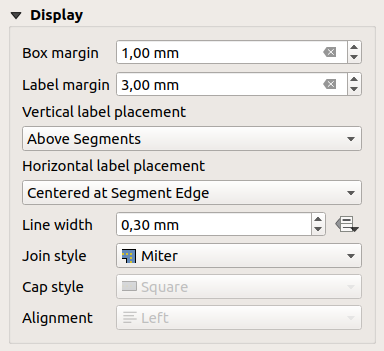
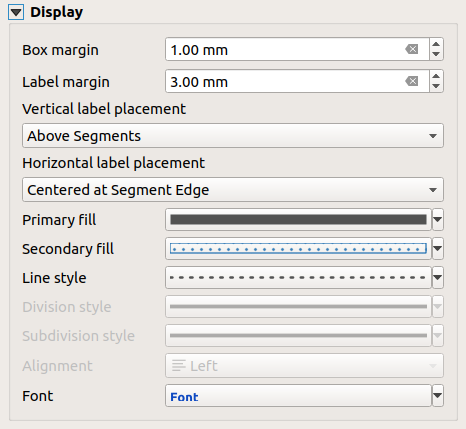
Review the layout scale bar widget properties

Changed region(s): [[0.0, 0.0, 0.9688, 0.9687], [0.0312, 0.6268, 0.25, 0.6838]]

diff --git a/docs/user_manual/print_composer/composer_items/composer_scale_bar.rst b/docs/user_manual/print_composer/composer_items/composer_scale_bar.rst
@@ -43,53 +43,85 @@ The :guilabel:`Main properties` group of the scale bar
    Scale Bar Main properties group
 
 #. First, choose the map the scale bar will be attached to
-#. Then, choose the style of the scale bar. Six styles are available:
+#. Then, choose the style of the scale bar. Available styles are:
 
    * **Single box** and **Double box** styles, which contain one or two lines
      of boxes alternating colors;
    * **Middle**, **Up** or **Down** line ticks;
+   * **Stepped line** style that draws a stepped line representation of a scalebar
+   * **Hollow** style that draws a single box with alternating color for the
+     segments, with horizontal lines through alternating segments
    * **Numeric**, where the scale ratio is printed (e.g., ``1:50000``).
 #. Set properties as appropriate
 
-Units and Segments
-------------------
+Units
+-----
 
-The :guilabel:`Units` and :guilabel:`Segments` groups of the scale bar
-:guilabel:`Item Properties` panel (not available for the **Numeric** style)
-provide the following functionalities (see figure_layout_scalebar_units_):
+The :guilabel:`Units` group of the scale bar :guilabel:`Item Properties` panel
+provides the functionalities to set the units of display and some text formatting
+(see figure_layout_scalebar_units_):
 
 .. _figure_layout_scalebar_units:
 
 .. figure:: img/scalebar_units.png
    :align: center
 
-   Scale Bar Units and Segments groups
-
-In these two groups, you can set how the scale bar will be represented.
+   Scale Bar Units group
 
 * Select the units you want to use with :guilabel:`Scalebar units`. There are
   many possible choices: **Map Units** (the default one), **Meters**, **Feet**,
-  **Miles** or **Nautical Miles**... which may force unit conversions.
+  **Miles** or **Nautical Miles**... and some derivatives. Units conversion
+  is handled automatically.
 * The :guilabel:`Label unit multiplier` specifies how many scale bar units per
   labeled unit. Eg, if your scale bar units are set to "meters", a multiplier of
   1000 will result in the scale bar labels in "kilometers".
 * The :guilabel:`Label for units` field defines the text used to describe the
   units of the scale bar, eg ``m`` or ``km``. This should be matched to reflect
   the multiplier above.
+* Press :guilabel:`Customize`next to :guilabel:`Number format` to have control
+  over all the formatting properties for the numbers in the scale bar, including
+  thousand separators, decimal places, scientific notation, etc.
+  (see :ref:`number_formatting` for more details).
+  Very useful in the case of making maps for audiences outside of the current
+  QGIS locale, or when you'd just prefer to vary the style from the locale
+  defaults (e.g. adding thousands separators when the locale default is to hide
+  them)
+
+Segments
+--------
+
+The :guilabel:`Segments` group of the scale bar :guilabel:`Item Properties` panel
+provides the functionalities to configure the number and size of segments and
+subdivisions (see figure_layout_scalebar_segments_):
+
+.. _figure_layout_scalebar_segments:
+
+.. figure:: img/scalebar_segments.png
+   :align: center
+
+   Scale Bar Segments group
+
 * You can define how many :guilabel:`Segments` will be drawn on the left and on
-  the right side of the scale bar.
-* You can set how long each segment will be (:guilabel:`Fixed width`), or limit
+  the right side of the ``0`` of the scale bar:
+
+  * number of subdivisions of a unique segment on the :guilabel:`Left` side
+  * number of segments on the :guilabel:`Right` side
+* You can set how long a segment will be (:guilabel:`Fixed width`), or limit
   the scale bar size in ``mm`` with :guilabel:`Fit segment width` option. In the
   latter case, each time the map scale changes, the scale bar is resized (and
   its label updated) to fit the range set.
 * :guilabel:`Height` is used to define the height of the bar.
+* :guilabel:`Right segment subdivisions` is used to define the number of sections
+  the right-side segments of the scale bar can have (for *Line Ticks Down*,
+  *Line Ticks Middle* and *Line Ticks Up* scale bar styles) .
+* :guilabel:`Subdivision height` is used to define the height of the subdivision
+  segment.
 
 Display
 --------
 
 The :guilabel:`Display` group of the scale bar :guilabel:`Item Properties`
-panel provides the following functionalities (see
-figure_layout_scalebar_display_):
+panel provides the following functionalities:
 
 .. _figure_layout_scalebar_display:
 
@@ -106,50 +138,35 @@ You can define how the scale bar will be displayed in its frame.
   segment
 * :guilabel:`Horizontal label placement`: which would be centered at the scale
   bar segment's edge or center
-* :guilabel:`Line width` : line width of the scale bar drawing
-* :guilabel:`Join style` : Corners at the end of scale bar in Bevel, Miter or
-  Round style (only available for Scale bar style Single Box & Double Box)
-* :guilabel:`Cap style` : End of all lines in style Square, Round or Flat
-  (only available for Scale bar style Line Ticks Up, Down and Middle)
-* :guilabel:`Alignment` : Puts text on the left, center or right side of the
-  frame (works only for Scale bar style Numeric)
-
-Fonts and colors
------------------
-
-The :guilabel:`Fonts and colors` group of the scale bar
-:guilabel:`Item Properties` panel provides the following functionalities
-(see figure_layout_scalebar_fonts_):
-
-.. _figure_layout_scalebar_fonts:
-
-.. figure:: img/scalebar_fonts.png
-   :align: center
-
-   Scale Bar Fonts and colors groups
-
-You can define the :ref:`fonts <font_selector>` and :ref:`colors <color-selector>`
-used for the scale bar. These properties are data-definable.
-
-* Use the :guilabel:`Font` button to set the :ref:`properties <text_format>`
+* :guilabel:`Primary fill` and :guilabel:`Secondary fill` of the scale bar
+  drawing using :ref:`fill symbols properties <vector_fill_symbols>`
+  (color, opacity, patterns, effects...) --- for *Single Box*, *Double Box*
+  and *Hollow* styles
+* :guilabel:`Line style` of the scale bar drawing using :ref:`line symbols
+  properties <vector_line_symbols>` (color, stroke, join, cap style, patterns,
+  effects...) --- for all but *Numeric* style
+* :guilabel:`Division style` and :guilabel:`Subdivision style` respectively
+  for division and subdivision segments in *Line Ticks Up*, *Line Ticks Middle*
+  and *Line Ticks Down* scale bar styles using :ref:`line symbols properties
+  <vector_line_symbols>` (color, stroke, join, cap style, patterns, effects...)
+* :guilabel:`Alignment` puts text on the left, center or right side of the
+  frame (only for *Numeric* scale bar style)
+* :guilabel:`Font` to set the :ref:`properties <text_format>`
   (size, font, color, letter spacing, shadow, background...) of the scale bar
   label.
 
-  Example: The following code applied to the bold property of the scale labels
-  will display texts in bold when they are a multiple of 500:
+Since most of the display properties of the scale bar rely on symbols whose
+properties can be data-defined, it's possible to render data-defined scale bars.
 
-  ::
+**Example**: The following code applied to the bold property of the scale labels
+will display texts in bold when they are a multiple of 500:
 
-     -- returns True (or 1) if the value displayed on the bar
-     -- is a multiple of 500
+::
 
-     @scale_value % 500 = 0
+   -- returns True (or 1) if the value displayed on the bar
+   -- is a multiple of 500
 
-* :guilabel:`Fill color`: set the first fill color
-* :guilabel:`Secondary fill color`: set the second fill color
-* :guilabel:`Line color`: set the color of the lines of the Scale Bar
-
-Fill colors are only used for *Single Box* and *Double Box* styles.
+   @scale_value % 500 = 0
 
 
 .. Substitutions definitions - AVOID EDITING PAST THIS LINE
